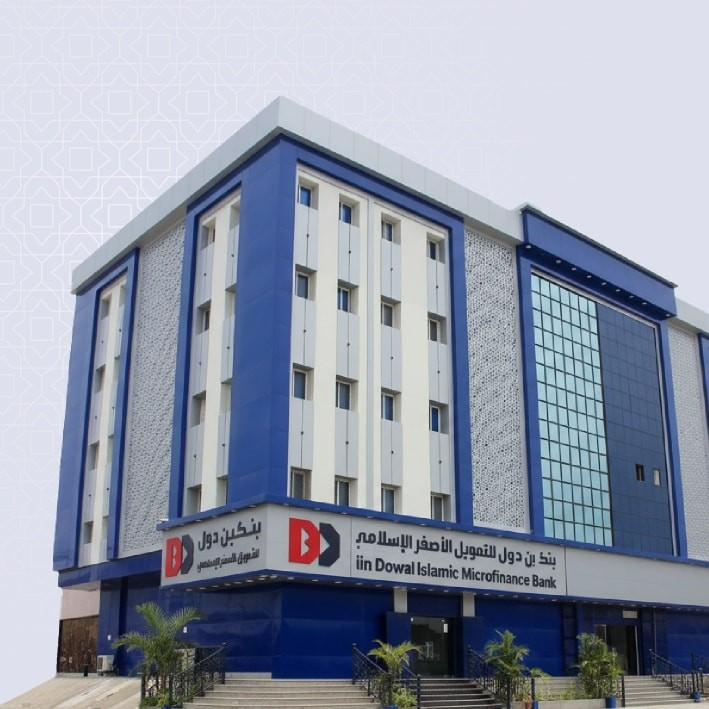
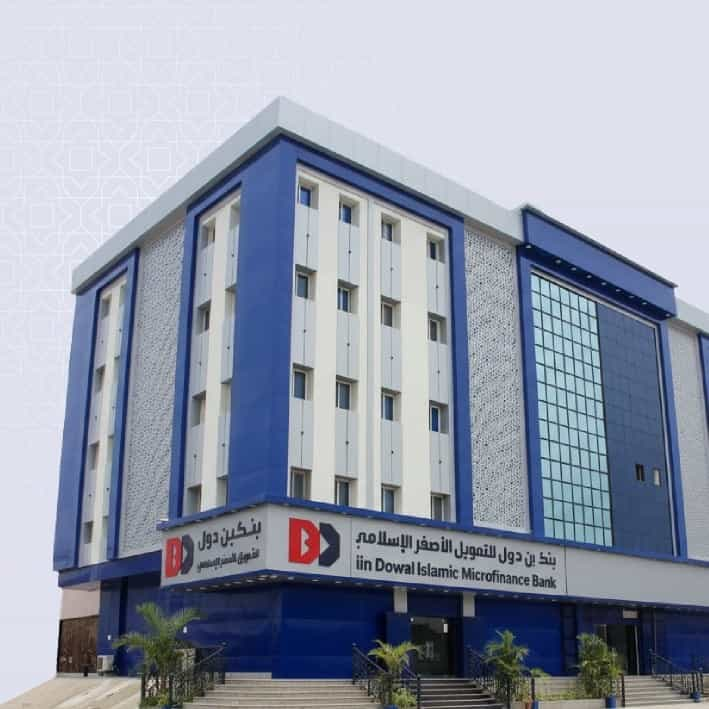
compress images

diff --git a/components/home/calculator-section.tsx b/components/home/calculator-section.tsx
@@ -266,7 +266,7 @@ export function CalculatorSection() {
           >
             <div className="group relative h-[360px] overflow-hidden rounded-[30px] border border-white/70 bg-white shadow-[0_24px_80px_rgba(15,23,42,0.08)] md:h-[460px] lg:h-full lg:min-h-[680px]">
               <Image
-                src="/images/Financing Services Section Picture.png"
+                src="/images/Financing Services Section Picture.jpg"
                 alt={isArabic ? "خدمات التمويل" : "Financing services"}
                 fill
                 sizes="(max-width: 1024px) 100vw, 50vw"
@@ -349,11 +349,10 @@ export function CalculatorSection() {
                         >
                           <div className="flex items-center gap-2.5">
                             <div
-                              className={`flex h-8 w-8 items-center justify-center rounded-full transition-all ${
-                                isActive
+                              className={`flex h-8 w-8 items-center justify-center rounded-full transition-all ${isActive
                                   ? "bg-[#1d4ed8]/10 text-[#1d4ed8]"
                                   : "bg-slate-200/70 text-slate-600"
-                              }`}
+                                }`}
                             >
                               <Icon className="h-4 w-4" />
                             </div>
